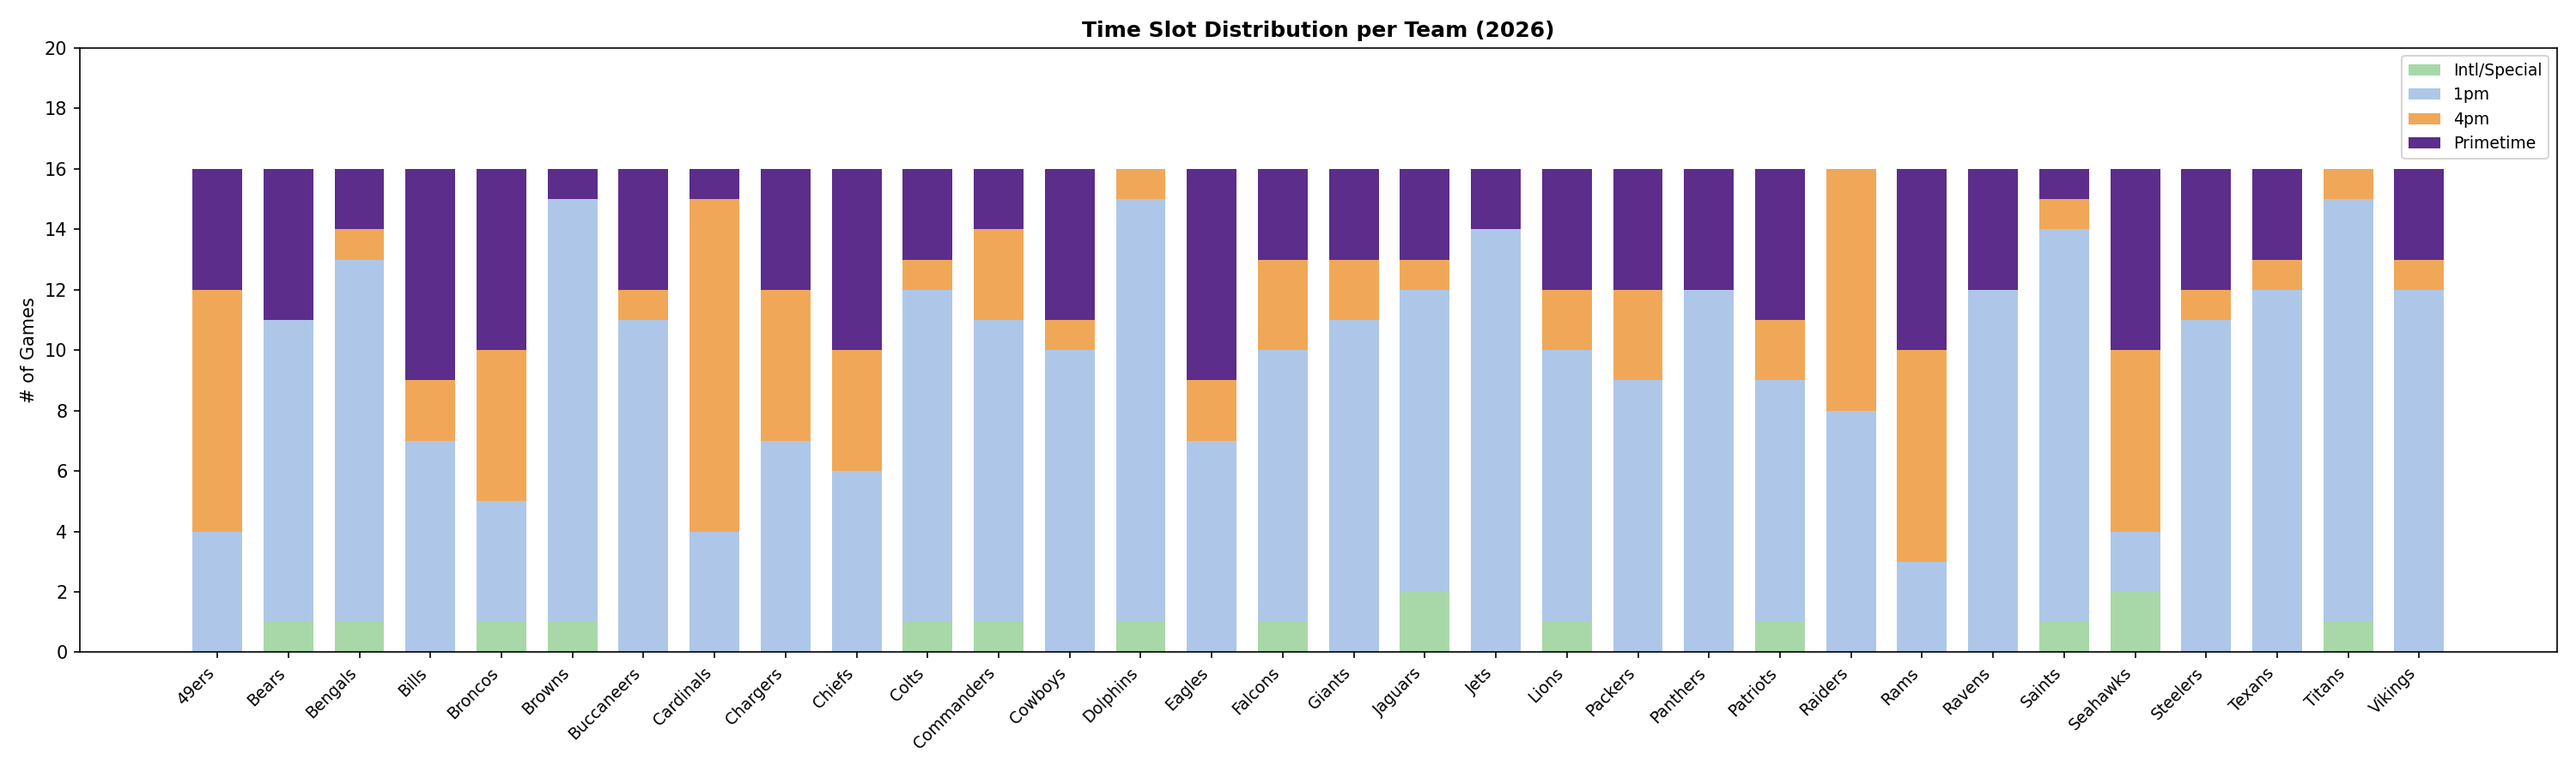
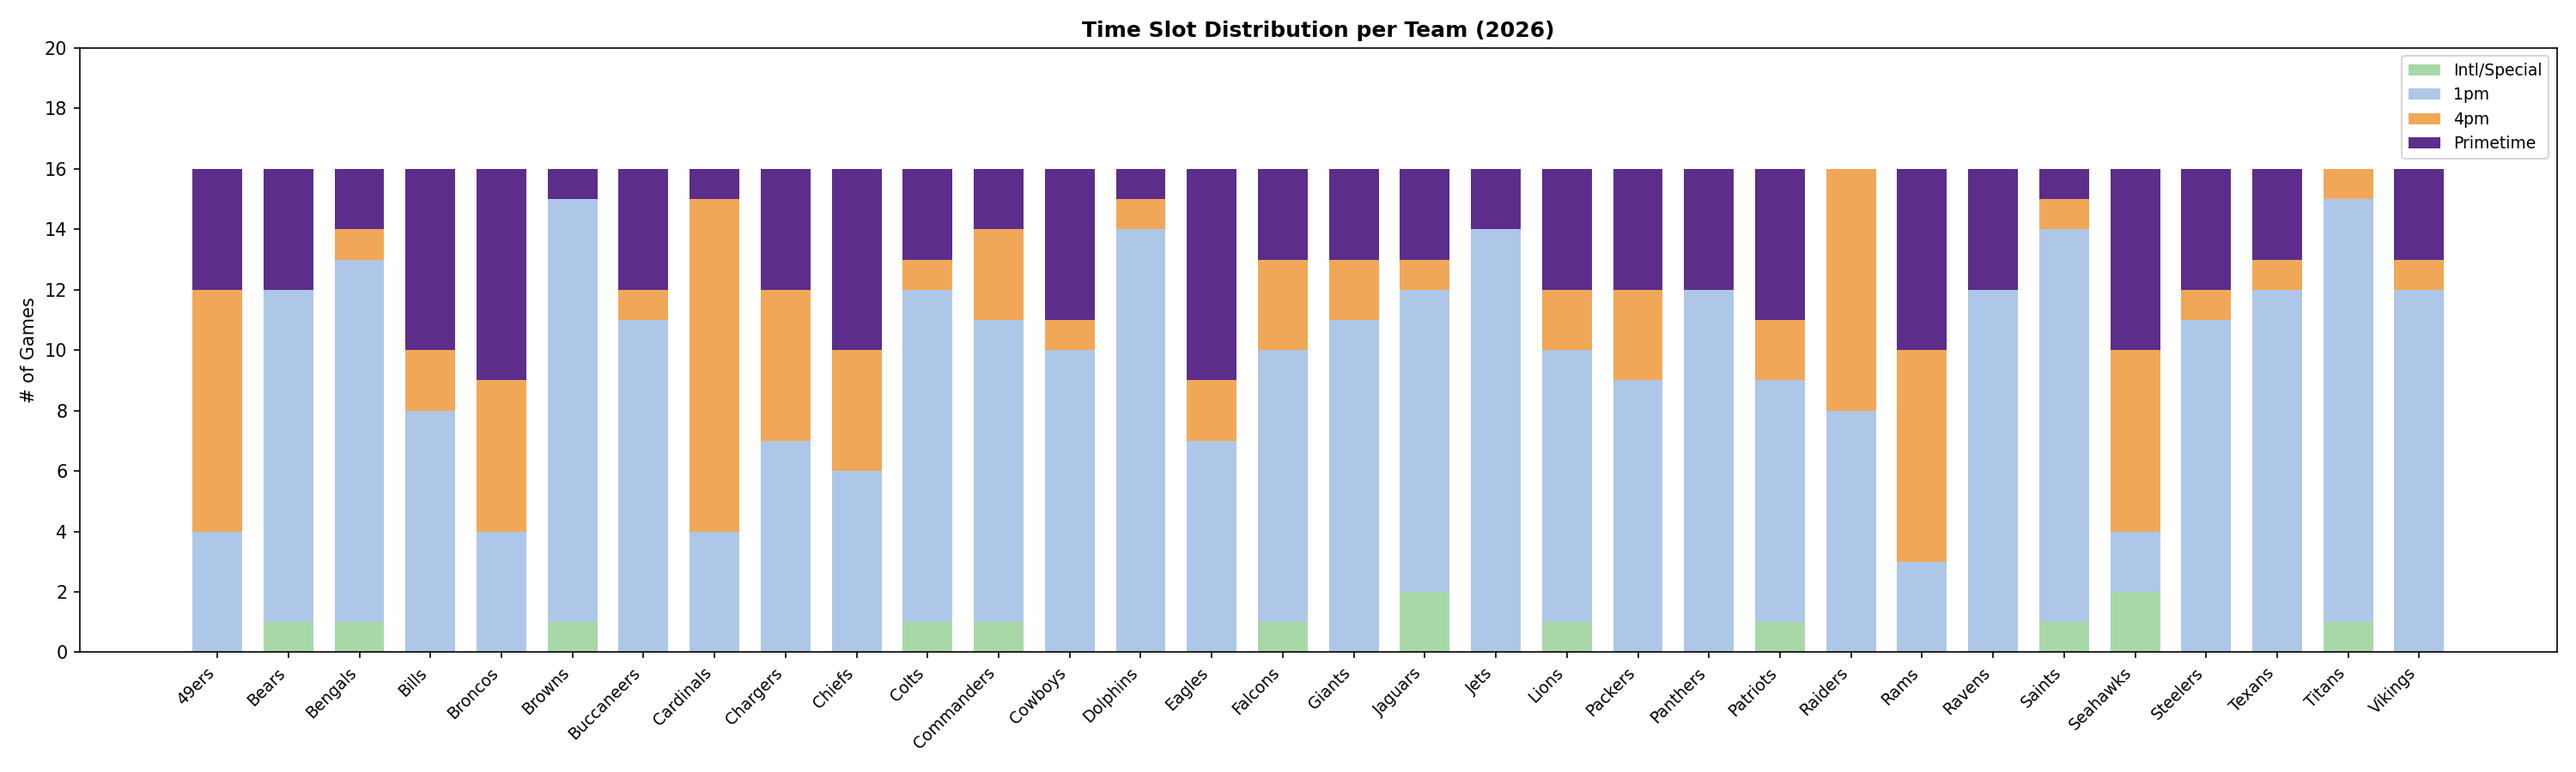
please

diff --git a/primetime.html b/primetime.html
@@ -726,10 +726,10 @@
     <div class="week-group">
       <div class="week-label">Week 13</div>
       <div class="game-card mnf">
-        <div class="team-logos"><img src="logos/chicago-bears.png" alt="Bears"><span class="vs-sep">@</span><img src="logos/buffalo-bills.png" alt="Bills"></div>
+        <div class="team-logos"><img src="logos/miami-dolphins.png" alt="Dolphins"><span class="vs-sep">@</span><img src="logos/denver-broncos.png" alt="Broncos"></div>
         <div class="game-info">
-          <div class="matchup">Bears @ Bills</div>
-          <div class="game-meta">1:00 PM ET</div>
+          <div class="matchup">Dolphins @ Broncos</div>
+          <div class="game-meta">8:15 PM ET</div>
           <div class="game-note">Monday Night Football</div>
         </div>
         <span class="badge mnf">MNF</span>

diff --git a/schedules/miami-dolphins.html b/schedules/miami-dolphins.html
@@ -163,9 +163,9 @@
         </tr>
         <tr class="">
           <td>13</td>
-          <td>December 6</td>
+          <td>December 7</td>
           <td class="opponent">at <span class="opp-name">Broncos</span></td>
-          <td>8:15 PM ET</td>
+          <td>8:15 PM ET (Monday Night Football)</td>
         </tr>
         <tr class="divisional">
           <td>14</td>

diff --git a/schedules/chicago-bears.html b/schedules/chicago-bears.html
@@ -163,9 +163,9 @@
         </tr>
         <tr class="">
           <td>13</td>
-          <td>December 7</td>
+          <td>December 6</td>
           <td class="opponent">at <span class="opp-name">Bills</span></td>
-          <td>1:00 PM ET (Monday Night Football)</td>
+          <td>1:00 PM ET</td>
         </tr>
         <tr class="divisional">
           <td>14</td>

diff --git a/schedules/denver-broncos.html b/schedules/denver-broncos.html
@@ -163,9 +163,9 @@
         </tr>
         <tr class="">
           <td>13</td>
-          <td>December 6</td>
+          <td>December 7</td>
           <td class="opponent"><span class="opp-name">Dolphins</span></td>
-          <td>8:15 PM ET</td>
+          <td>8:15 PM ET (Monday Night Football)</td>
         </tr>
         <tr class="">
           <td>14</td>

diff --git a/schedules/buffalo-bills.html b/schedules/buffalo-bills.html
@@ -163,9 +163,9 @@
         </tr>
         <tr class="">
           <td>13</td>
-          <td>December 7</td>
+          <td>December 6</td>
           <td class="opponent"><span class="opp-name">Bears</span></td>
-          <td>1:00 PM ET (Monday Night Football)</td>
+          <td>1:00 PM ET</td>
         </tr>
         <tr class="">
           <td>14</td>
